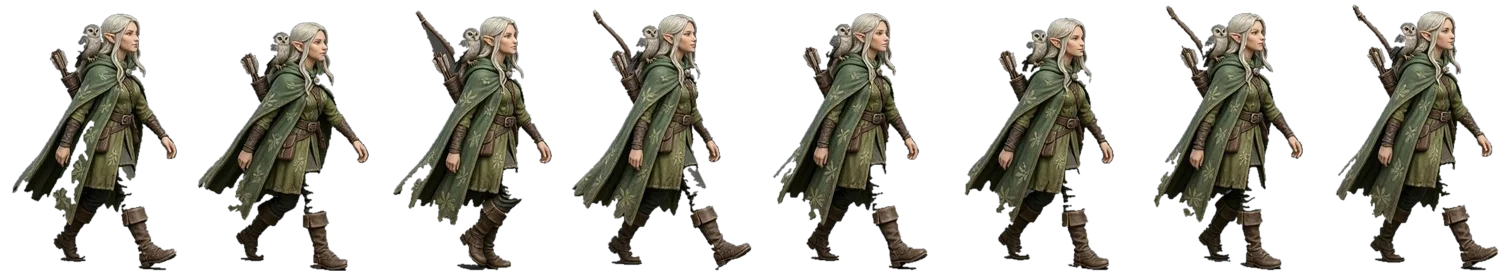
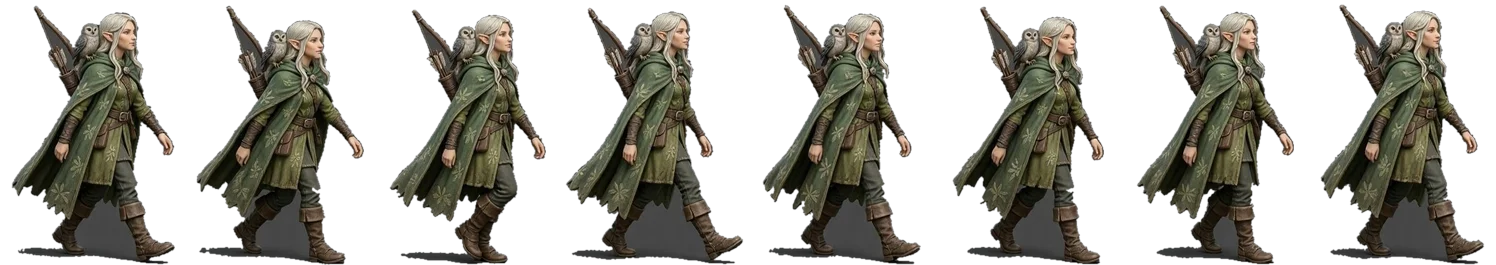
Caminhada em 8 quadros para os 23 personagens do tabuleiro
- 12 heróis (com a coruja da Lyra e o lince do Taren), 4 vilões e 7 criaturas
- Recorte automático sem fundo (tools/miniaturas.py) com tolerância adaptativa
- Largura máxima para bichos compridos; correção de caminho vazio na animação
- Guia de geração no docs/prompts-arte.md

diff --git a/src/ui/Tabuleiro.tsx b/src/ui/Tabuleiro.tsx
@@ -174,7 +174,10 @@ export function Tabuleiro({ estado, ambiente = 'porto', visuais, hexesValidos, u
       if (viradoRef.current[u.id] === undefined) viradoRef.current[u.id] = u.lado === 'monstro';
       if (!antes || (antes.q === u.pos.q && antes.r === u.pos.r) || u.fora) continue;
       const ocupados = new Set(estado.unidades.filter((o) => o.id !== u.id && !o.fora).map((o) => chave(o.pos)));
-      const rota = [antes, ...(caminho(antes, u.pos, { andaveis, bloqueados: ocupados }) ?? [u.pos])];
+      const achado = caminho(antes, u.pos, { andaveis, bloqueados: ocupados });
+      const rota = [antes, ...(achado && achado.length ? achado : [u.pos])];
+      const ultimo = rota[rota.length - 1];
+      if (ultimo.q !== u.pos.q || ultimo.r !== u.pos.r) rota.push(u.pos);
       const pontosRota = rota.map(px);
       if (andando.current[u.id]) cancelAnimationFrame(andando.current[u.id]);
       const inicio = performance.now();
@@ -184,8 +187,8 @@ export function Tabuleiro({ estado, ambiente = 'porto', visuais, hexesValidos, u
         const dec = Math.min(t - inicio, total);
         const i = Math.min(pontosRota.length - 2, Math.floor(dec / MS_POR_CASA));
         const f = (dec - i * MS_POR_CASA) / MS_POR_CASA;
-        const a = pontosRota[i];
-        const b = pontosRota[i + 1];
+        const a = pontosRota[Math.max(0, i)];
+        const b = pontosRota[Math.max(0, i) + 1] ?? a;
         if (i !== passoTocado && dec < total) {
           passoTocado = i;
           tocar('passo');
@@ -297,11 +300,18 @@ function Unidade({ u, x, y, quadro, virado, visual, alvo, vez, atingida, onClick
   let topo: number;
   if (urlAndar && tam) {
     const fw = tam.w / 8;
-    const largura = (altura * fw) / tam.h;
-    topo = -altura + 2;
+    // bichos compridos (lobo) não podem ocupar a casa vizinha
+    const larguraMax = u.chefe ? 90 : 66;
+    let alt = altura;
+    let largura = (alt * fw) / tam.h;
+    if (largura > larguraMax) {
+      alt = (alt * larguraMax) / largura;
+      largura = larguraMax;
+    }
+    topo = -alt + 2;
     figura = (
       <g transform={virado ? 'scale(-1 1)' : undefined}>
-        <svg x={-largura / 2} y={topo} width={largura} height={altura} viewBox={`${quadro * fw} 0 ${fw} ${tam.h}`} preserveAspectRatio="xMidYMax meet" className="unidade__mini">
+        <svg x={-largura / 2} y={topo} width={largura} height={alt} viewBox={`${quadro * fw} 0 ${fw} ${tam.h}`} preserveAspectRatio="xMidYMax meet" className="unidade__mini">
           <image href={urlAndar} width={tam.w} height={tam.h} />
         </svg>
       </g>

diff --git a/tools/miniaturas.py b/tools/miniaturas.py
@@ -1,0 +1,123 @@
+"""Processa as artes de miniatura geradas no Bing.
+
+- token.<id>.jpg  -> src/assets/arte/token.<id>.webp  (figura sem fundo, recortada)
+- andar.<id>.jpg  -> src/assets/arte/andar.<id>.webp  (faixa com 8 quadros iguais, sem fundo)
+
+Uso: python3 -I miniaturas.py <pasta_entrada> <pasta_saida>
+"""
+import sys, os, glob
+import numpy as np
+from PIL import Image, ImageFilter
+from scipy import ndimage
+
+ALTURA_TOKEN = 320
+ALTURA_QUADRO = 260
+
+
+def mascara_figura(rgb: np.ndarray) -> np.ndarray:
+    """Fundo cinza liso: tudo que é parecido com a borda e está ligado a ela vira fundo."""
+    h, w, _ = rgb.shape
+    borda = np.concatenate([rgb[0], rgb[-1], rgb[:, 0], rgb[:, -1]]).astype(float)
+    fundo = np.median(borda, axis=0)
+    # fundo pode ter vinheta: compara com o fundo local (desfocado) também
+    dist = np.sqrt(((rgb.astype(float) - fundo) ** 2).sum(-1))
+    sat = rgb.max(-1).astype(float) - rgb.min(-1).astype(float)
+    # fundo liso (pouca variação na borda) pede tolerância menor, senão come figuras cinza
+    var = float(np.sqrt(((borda - fundo) ** 2).sum(-1)).mean())
+    tol = min(38.0, max(12.0, var * 4 + 8))
+    parecido = (dist < tol) & (sat < 22)
+    rot, _ = ndimage.label(parecido)
+    tocando = set(np.unique(np.concatenate([rot[0], rot[-1], rot[:, 0], rot[:, -1]]))) - {0}
+    eh_fundo = np.isin(rot, list(tocando))
+    fig = ~eh_fundo
+    fig = ndimage.binary_opening(fig, iterations=1)
+    fig = ndimage.binary_fill_holes(fig)
+    # remove sujeirinhas pequenas
+    rot2, n = ndimage.label(fig)
+    if n:
+        tam = ndimage.sum(fig, rot2, range(1, n + 1))
+        fig = np.isin(rot2, [i + 1 for i, t in enumerate(tam) if t > 0.002 * h * w])
+    return fig
+
+
+def com_alfa(img: Image.Image, fig: np.ndarray) -> Image.Image:
+    a = Image.fromarray((fig * 255).astype(np.uint8)).filter(ImageFilter.GaussianBlur(0.8))
+    out = img.convert('RGBA')
+    out.putalpha(a)
+    return out
+
+
+def recortar(im: Image.Image) -> Image.Image:
+    bbox = im.getchannel('A').point(lambda v: 255 if v > 20 else 0).getbbox()
+    return im.crop(bbox) if bbox else im
+
+
+def processar_token(caminho: str, saida: str):
+    img = Image.open(caminho).convert('RGB')
+    fig = mascara_figura(np.array(img))
+    # fica só com o maior bloco (a miniatura)
+    rot, n = ndimage.label(fig)
+    if n > 1:
+        tam = ndimage.sum(fig, rot, range(1, n + 1))
+        fig = rot == (int(np.argmax(tam)) + 1)
+    im = recortar(com_alfa(img, fig))
+    im = im.resize((round(im.width * ALTURA_TOKEN / im.height), ALTURA_TOKEN), Image.LANCZOS)
+    im.save(saida, 'WEBP', quality=88)
+
+
+def segmentos(perfil: np.ndarray, n: int):
+    """Divide um perfil de ocupação em n blocos, cortando nos vales."""
+    tam = len(perfil)
+    cortes = [0]
+    for k in range(1, n):
+        alvo = tam * k // n
+        janela = tam // (n * 3)
+        lo, hi = max(0, alvo - janela), min(tam, alvo + janela)
+        cortes.append(lo + int(np.argmin(perfil[lo:hi])))
+    cortes.append(tam)
+    return list(zip(cortes[:-1], cortes[1:]))
+
+
+def processar_andar(caminho: str, saida: str):
+    img = Image.open(caminho).convert('RGB')
+    rgb = np.array(img)
+    fig = mascara_figura(rgb)
+    linhas = segmentos(fig.sum(1).astype(float), 2)
+    quadros = []
+    for (y0, y1) in linhas:
+        faixa = fig[y0:y1]
+        for (x0, x1) in segmentos(faixa.sum(0).astype(float), 4):
+            m = np.zeros_like(fig)
+            m[y0:y1, x0:x1] = fig[y0:y1, x0:x1]
+            q = com_alfa(img, m).crop((x0, y0, x1, y1))
+            bbox = q.getchannel('A').point(lambda v: 255 if v > 20 else 0).getbbox()
+            if bbox:
+                quadros.append(q.crop(bbox))
+    if len(quadros) != 8:
+        raise ValueError(f'{os.path.basename(caminho)}: achei {len(quadros)} quadros')
+    # mesma escala para todos (pela altura média) e pés alinhados embaixo
+    alt = np.median([q.height for q in quadros])
+    escala = ALTURA_QUADRO / alt
+    qs = [q.resize((max(1, round(q.width * escala)), max(1, round(q.height * escala))), Image.LANCZOS) for q in quadros]
+    W = max(q.width for q in qs) + 8
+    H = max(q.height for q in qs) + 4
+    faixa = Image.new('RGBA', (W * 8, H), (0, 0, 0, 0))
+    for i, q in enumerate(qs):
+        faixa.paste(q, (i * W + (W - q.width) // 2, H - q.height), q)
+    faixa.save(saida, 'WEBP', quality=85)
+    return W, H
+
+
+if __name__ == '__main__':
+    ent, sai = sys.argv[1], sys.argv[2]
+    for c in sorted(glob.glob(os.path.join(ent, '*.jpg'))):
+        nome = os.path.basename(c)[:-4]
+        destino = os.path.join(sai, nome + '.webp')
+        try:
+            if nome.startswith('token.'):
+                processar_token(c, destino)
+                print('ok', nome)
+            elif nome.startswith('andar.'):
+                print('ok', nome, processar_andar(c, destino))
+        except Exception as e:  # noqa: BLE001
+            print('ERRO', nome, e)

diff --git a/docs/prompts-arte.md b/docs/prompts-arte.md
@@ -814,3 +814,24 @@ arquivo: **`carta.base.protetor.lasca.pele-de-diamante.png`**
 a slender stone golem woman with violet crystal shards growing from her shoulders and head like a crown, a glowing crack of starlight in her chest, sharp ironic expression, arms crossed, dynamic action scene defending, the signature move called "Pele de Diamante", hand-painted digital illustration for a dark fantasy tabletop board game card, detailed ink linework, painterly, muted earthy palette with glowing blue lantern-light accents, dramatic lighting, misty dark background, wide horizontal composition, no text, no logo, no watermark
 ```
 
+
+## Miniaturas que andam (ciclo de caminhada de 8 quadros)
+
+Cada personagem do tabuleiro tem `src/assets/arte/andar.<id>.webp`: uma faixa com 8 quadros
+de caminhada, sem fundo. O jogo usa o quadro 3 (pernas juntas) para o personagem parado e
+os 8 quadros quando ele anda casa por casa. Sem esse arquivo, aparece o token com o retrato.
+
+Como gerar um novo (Bing Image Creator, proporção 3:2), trocando só a descrição:
+
+```text
+8-frame walk cycle sprite sheet, 8 frames arranged in 2 rows of 4, evenly spaced grid, the same character in every frame, side view walking to the right, frames show the full walk cycle: contact, down, passing, up, then the other leg, <DESCRIÇÃO DO PERSONAGEM>, full body from head to feet, hand-painted 3D tabletop miniature style, soft studio lighting, plain flat dark grey background, no text, no numbers, no logo, no watermark
+```
+
+Salve como `andar.<id>.jpg` numa pasta e rode:
+
+```bash
+python3 -I tools/miniaturas.py <pasta_com_os_jpg> src/assets/arte
+```
+
+O script tira o fundo cinza, separa os 8 quadros e alinha os pés.
+Companheiros (coruja, lince) entram na própria descrição para andarem junto.
